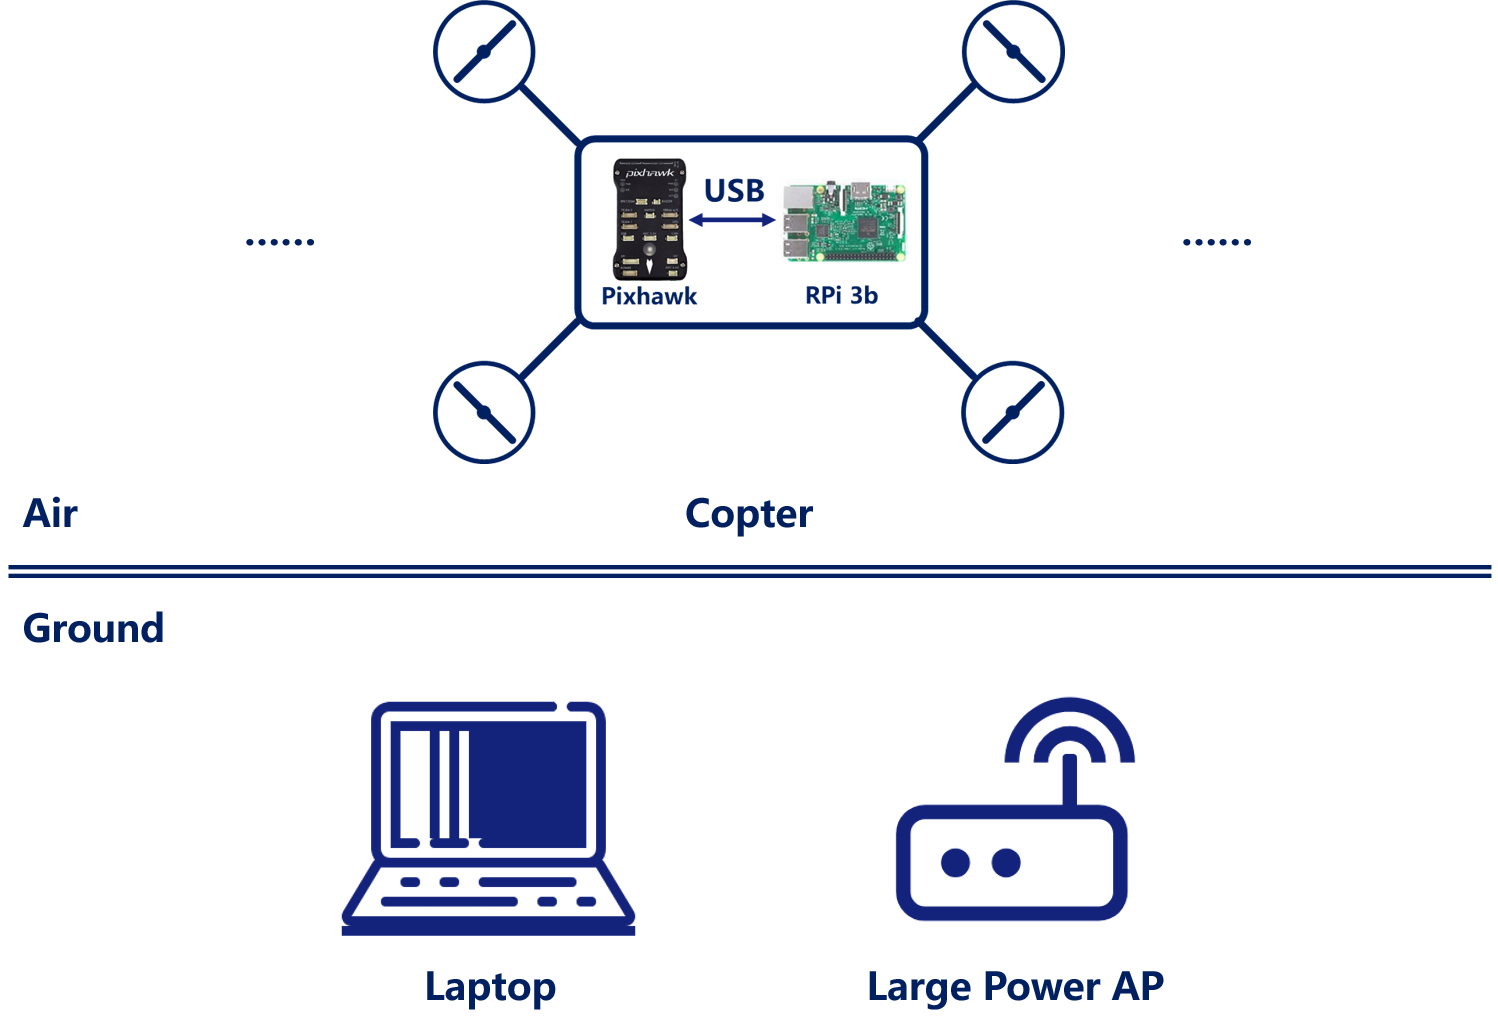
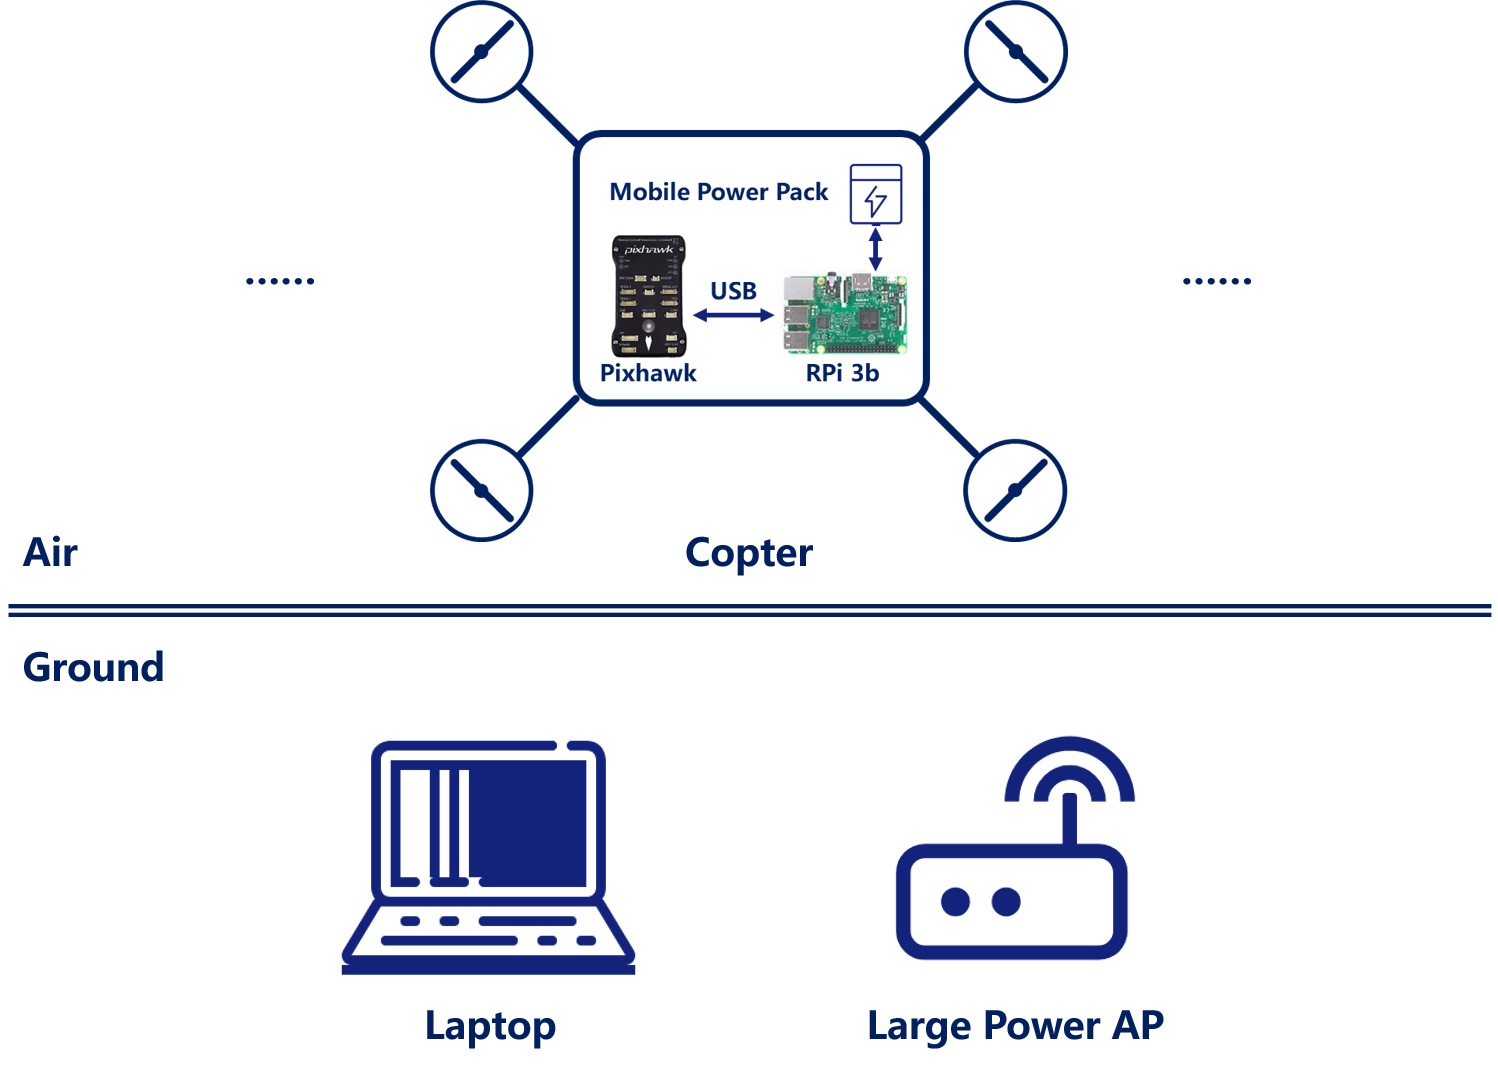
Update docs

diff --git a/README.md b/README.md
@@ -4,7 +4,7 @@ Monitor and GCS (on Raspberry Pi 3) for cluster of drones using MAVLink protocol
 
 ## Overview
 
-MAVCluster contains the python script runs on the Raspberry Pi 3 to control the drone and the program of monitor on the ground. One single Pi is connected to one single APM copter's fight controller, every of the Pi and the Monitor should be on the same LAN and they communicate with [MAVC message](/docs/MAVC_Message.md).
+MAVCluster contains the python script runs on the Raspberry Pi 3 to control the drone and the program of monitor on the ground. One single Pi is connected to one single APM copter's fight controller, every of the Pi and the Monitor should be on the same LAN and they communicate with [MAVC messages](/docs/mavc_message.md).
 
 The script is the agent between monitor and one single drone, it receives commands sent by monitor to control the drone and reports the state of drone back. It is based on [DroneKit-Python](https://github.com/dronekit/dronekit-python/blob/master) (the version of simulator)and [MAVProxy](https://github.com/ArduPilot/MAVProxy) (the version of real drone) since the drones we've got are all APM/Pixhawk copters, but you can rewrite the part of controller in  [drone_controller.py](/Pi/drone_controller.py) to run this script to control your own drones. If python 2.7 is not supported by your drones' SDK, you can still write a script yourself to communicate with our Monitor as long as there's a way to combine the socket programming and control of drone into one single script(we use Raspberry Pi here).
 
@@ -12,7 +12,9 @@ The monitor is a desktop application built by [Electron](https://github.com/elec
 
 ## Documentations
 
-* [Task file - Description of a task](/docs/task_file.md)
 * [Real flight - Run CoUAV on real drone(s)](/docs/real_flight.md)
 * [Simulation - Run CoUAV on simulator(s)](/docs/simulation.md)
+* [Task file - Description of a task](/docs/task_file.md)
+* [Communication - To develop your own script on RPi](/docs/communication.md)
+
 

diff --git a/docs/communication.md b/docs/communication.md
@@ -1,0 +1,17 @@
+# Communication
+
+To extend the application or create your own script on RPi, it's import to know [MAVC messages](mavc_message.md) and the process of communication between RPi and the monitor.
+
+## Establish the connection
+
+*   For real drone(s): The monitor will keep waiting a MAVC_REQ_CID message on UDP port 4396, once the message arrives it generates a CID for this drone and send a MAVC_CID message back in the same socket. After that the port ( 4396 + CID ) of both UDP and TCP  on monitor will be used.
+*   For simulator(s): The monitor will keep waiting a MAVC_REQ_CID message on UDP port ( 4396 + index of the simulator ), notice that the index begins from 0. Once the message arrives it generates a CID for this drone and send a MAVC_CID message back in the same socket. After that the same port ( 4396 + index ) of both UDP and TCP on monitor will be used.
+
+## Daily communication
+
+*   Via UDP protocol :
+    *   The status of drone will be reported every 0.5 second in MAVC_STAT message.
+*   Via TCP protocol: 
+    *   MAVC_ACTION.
+    *   MAVC_SET_GEOFENCE.
+    *   MAVC_ARRIVED.

diff --git a/docs/MAVC_Message.md b/docs/MAVC_Message.md
@@ -1,5 +1,5 @@
 # MAVC Message
-MAVC Message is a JSON string essentially, it is an simple protocol designed to implement the communication between Raspberry Pi 3 and the Monitor. The message is sent between programs mainly through UDP protocol.
+MAVC message is a JSON string essentially, it is designed to implement the communication between Raspberry Pi 3 and the monitor. The message is sent between programs mainly through UDP protocol.
 
 ##  Type
 
@@ -13,6 +13,7 @@ There are some values predefined as follows to identify the type of MAVC message
 | MAVC_SET_GEOFENCE | 3     | Set the geofence of drone                |
 | MAVC_ACTION       | 4     | Actions to be performed                  |
 | MAVC_ARRIVED      | 5     | Tell the monitor that the drone has arrived at the target |
+| MAVC_DONE         | 6     | Close the connection between RPi and monitor |
 
 ### Action Type
 
@@ -121,6 +122,11 @@ The format of MAVC message should follow the example below:
     {
         "CID": 3,
         "Step": 1 
+    }
+    
+    # Type = MAVC_DONE
+    {
+        "CID": 4
     }
 ]
 ```

diff --git a/docs/real_flight.md b/docs/real_flight.md
@@ -5,7 +5,7 @@ Run CoUAV on real drone(s).
 ## Devices
 
 * Laptop.
-* ( RPi 3b + Mobile Power Pack + Drone + USB cable/SiK Telemetry Radio  ) * N ($N \geq 1$).
+* ( RPi 3b + Mobile Power Pack + Drone + USB cable/SiK Telemetry Radio  ) * N.
 * Large power AP ( No need if the RPi connects to the drone via radio since the WLAN  created  by a smart phone can satisfy the requirement ).
 
 ## Configuration
